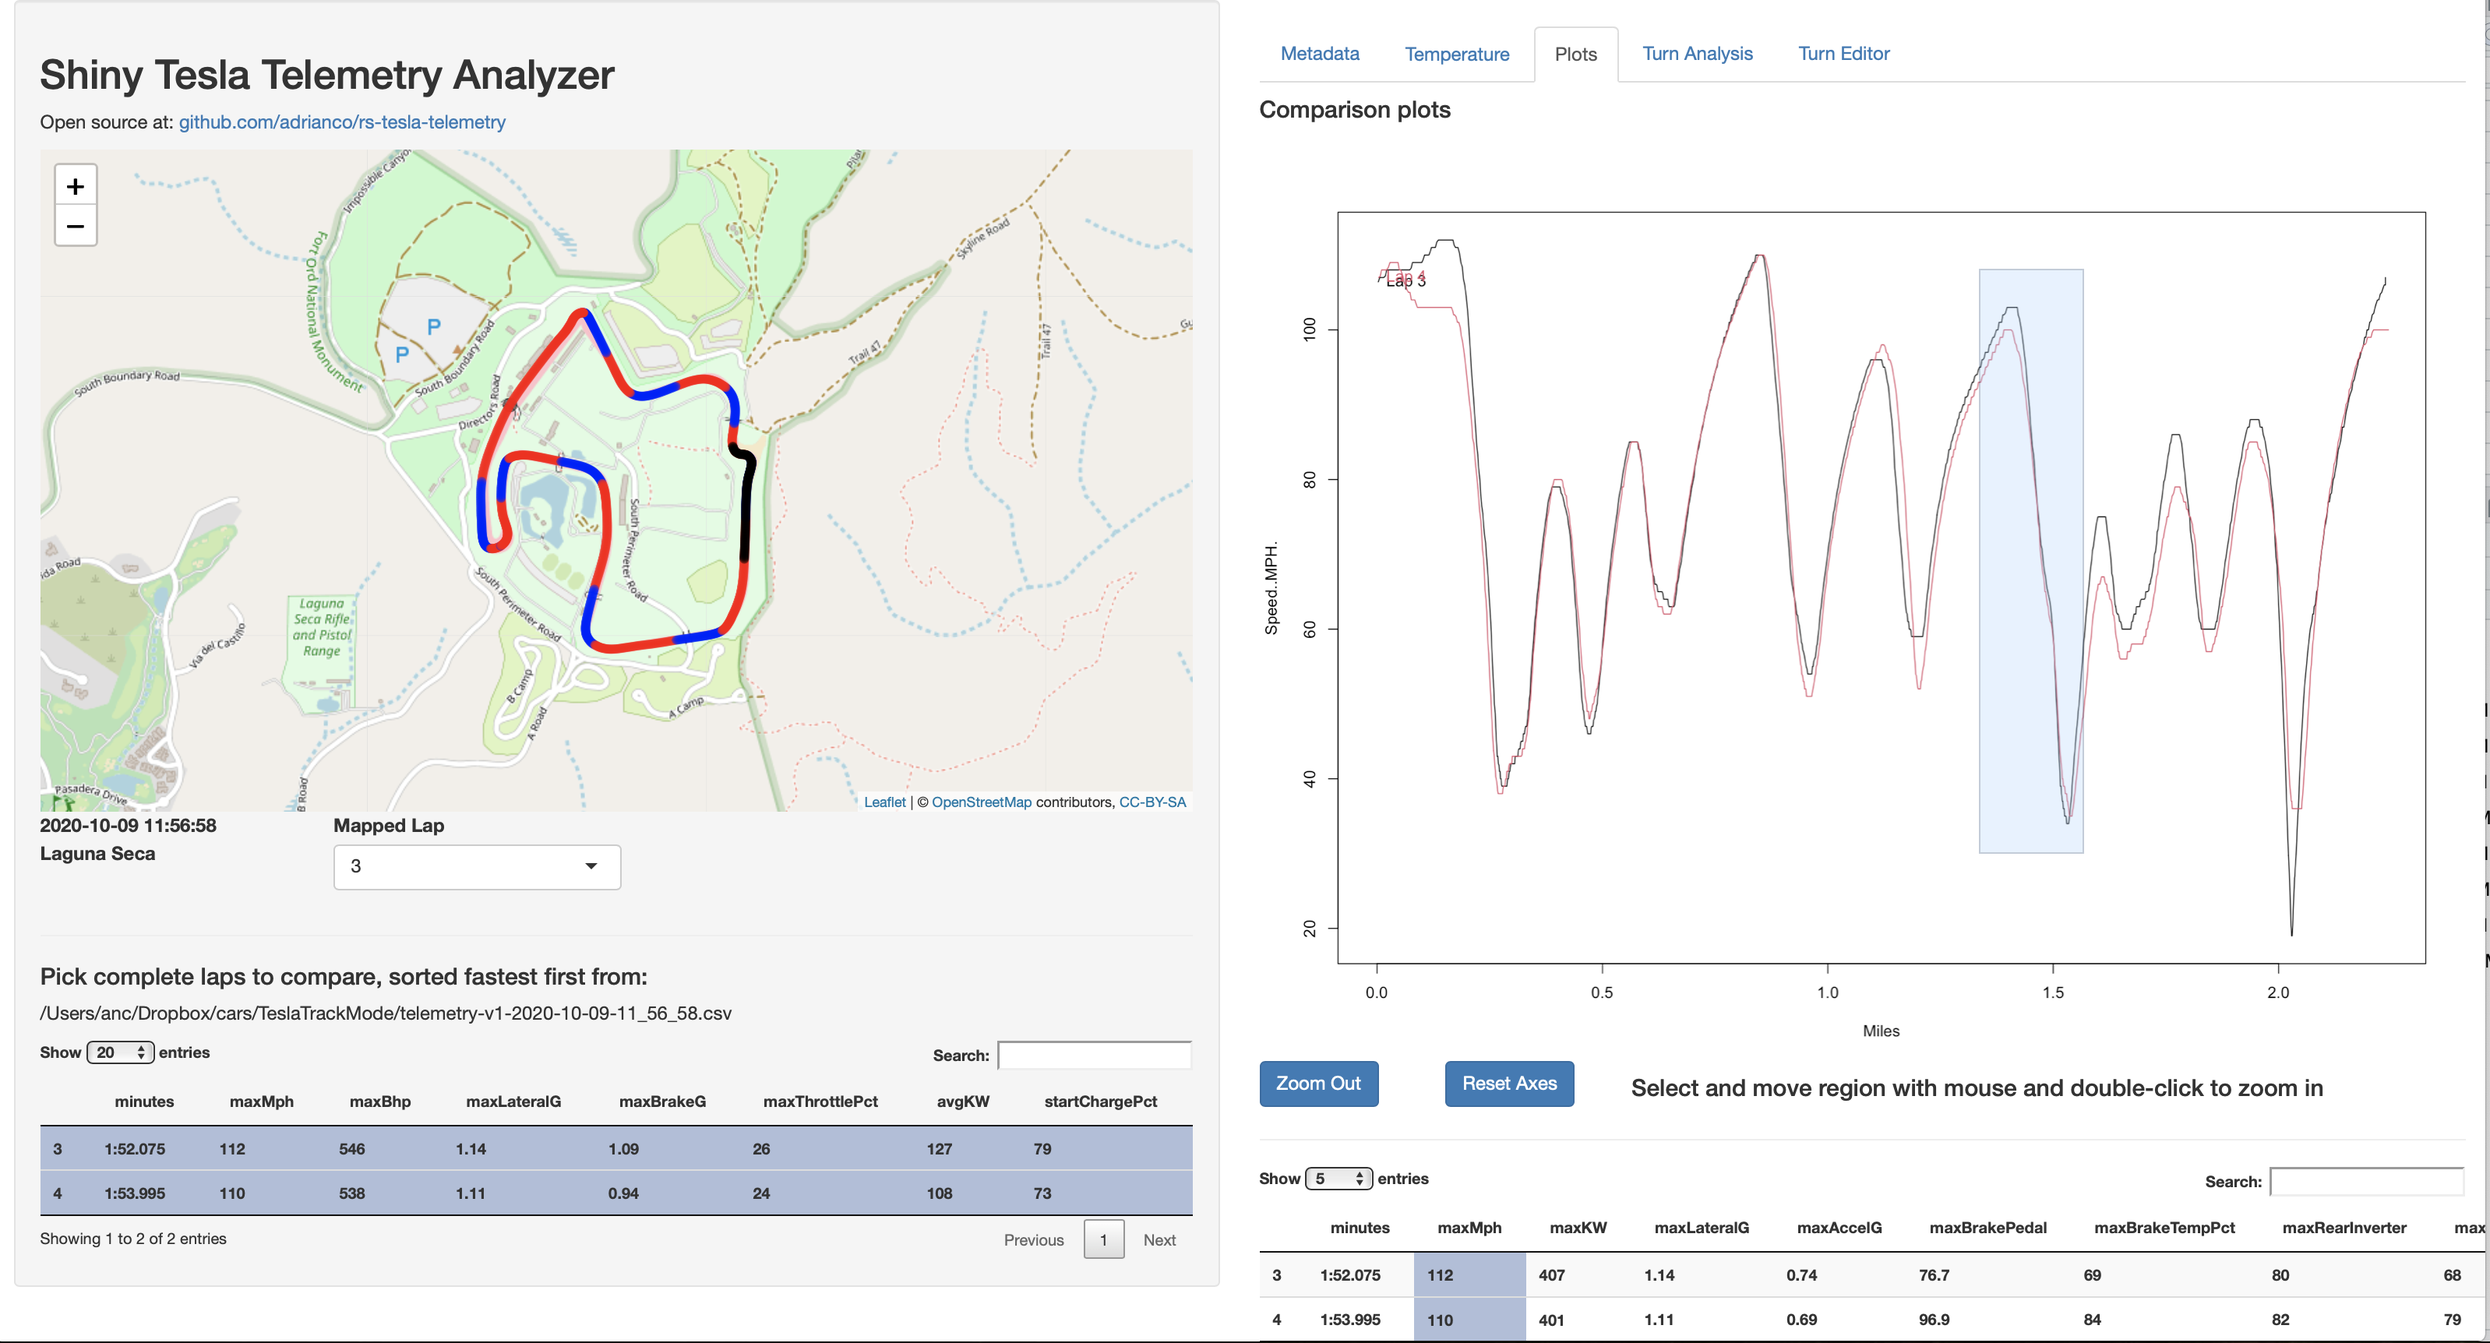
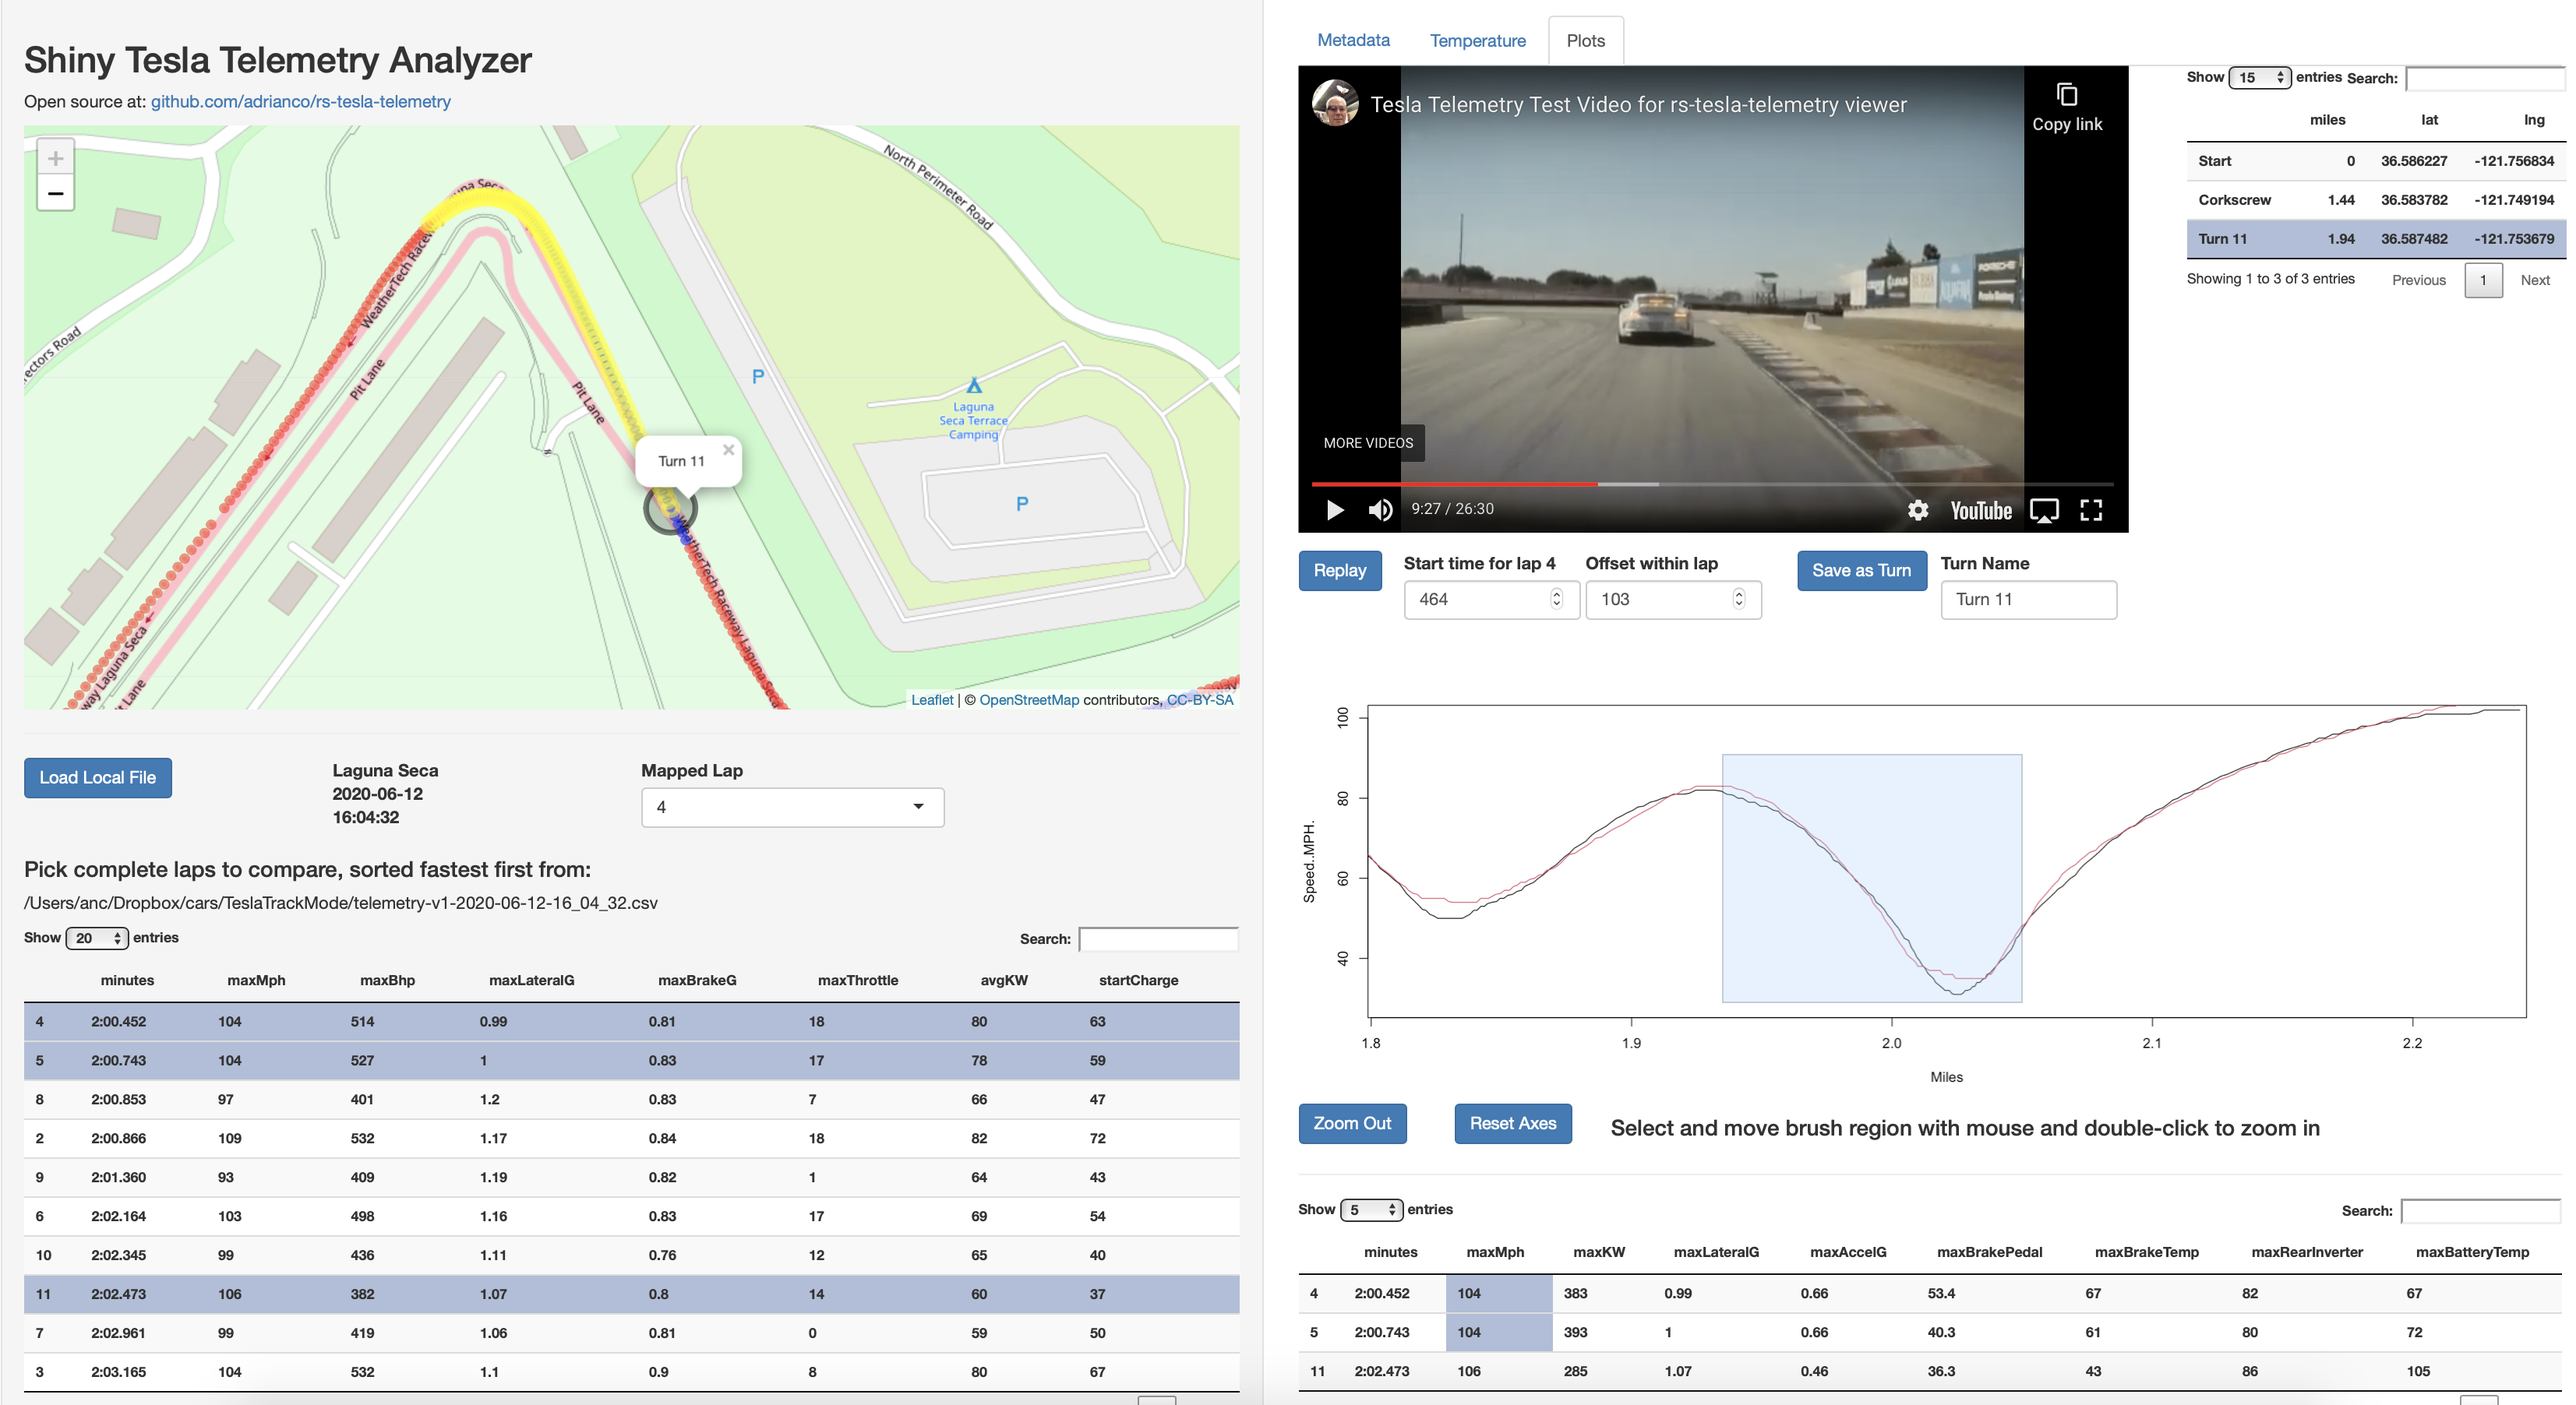
Updated README and screenshots

diff --git a/README.md b/README.md
@@ -1,30 +1,16 @@
 # rs-tesla-telemetry
 RStudio Shiny viewer for Tesla Telemetry Track Mode files - personal spare time project.
 
-Files are saved to the USB data logger port that is also used for Sentry videos. There's a silent video file of the track mode session, and a CSV format file named telemetry-v1-date-time.csv, there are 29 columns of data.
+Files are saved to the USB data logger port that is also used for Sentry videos. There's a silent video file of the track mode session, and a CSV format file named telemetry-v1-date-time.csv, there are 29 columns of data. Some people modify telemetry files to make the timestamp cumluative for import into tools like Racelogic, and add columns for brake pressure in Lbs as well as Bar. If 33 columns are detected the app assumes that the file is in Racelogic format and deals with it.
 
-Running the app, the telemetry file needs to be on the same machine, specified on the command line or from a chooser popup when run from RStudio. After the file is read it starts the user interface. This removes incomplete laps, sorts by fastest lap time, shows a summary of the performance data lap by lap, and summary tabs with a map view of the selected laps, and comparison plots of selected metrics vs. distance (rather than time, to align better). Plots can be zoomed in and out. Metadata about the session can be entered, and can be saved to a metadata file named and located the same as the telemetry file, which is loaded if it exists at startup. For each track, turn locations can be specified, for now this was manually created for Laguna Seca.
+Running the app, the telemetry file needs to be on the same machine, specified on the command line or loaded from a chooser popup. Different files can be loaded without restarting the app, and it remembers where files were last loaded even across restarts. The app removes incomplete laps, sorts laps by fastest lap time, shows a summary of the performance data lap by lap, and summary tabs with a map view of the selected laps, and comparison plots of selected metrics vs. distance (rather than time, to align better). Plots can be zoomed in and out. Metadata about the session can be entered, and can be saved to a metadata file named and located the same as the telemetry file, which is loaded if it exists at startup. For each session, turn locations can be specified and compared across laps. If a video of the session is available on Youtube, it can be saved as part of the metadata along with an offset to align it with the telemetry file. The video will be started at the right point to show the lap or the turn, for easy comparisons.
+
+For now the easiest way to run the app is by using RStudio to load it from github, and run it. It has been tested on both Mac and Windows. Some work to try and package it as a standalone app has run into packaging bugs.
 
 To run the app from the command line without RStudio give the track file path like this:
 ```
 % Rscript app.R /Users/anc/Dropbox/cars/TeslaTrackMode/telemetry-v1-2020-10-09-11_56_58.csv
-
-Attaching package: ‘DT’
-
-The following objects are masked from ‘package:shiny’:
-
-    dataTableOutput, renderDataTable
-
-collapse 1.4.0, see ?`collapse-package` or ?`collapse-documentation`
-Note: stats::D  ->  D.expression, D.call, D.name
-
-Attaching package: ‘collapse’
-
-The following object is masked from ‘package:stats’:
-
-    D
-
-
+...
 Listening on http://127.0.0.1:6344
 ```
 Then navigate to the URL and port shown on your machine using a web browser. Use ^C to stop the Rscript server.
@@ -34,13 +20,16 @@ On MacOS, you can use `$ zsh runme.zsh /Users/anc/Dropbox/cars/TeslaTrackMode/te
 
 See the [wiki for documentation](https://github.com/adrianco/rs-tesla-telemetry/wiki/Documentation) on how the code works and how to modify and extend it. 
  
+When the app starts it has a blank display, hit the Load Local File button to get the file chooser.
+![Screenshot](screenshots/BlankStart.png)
 
+Enter metadata about the session, and a YouTube ID if you have one.
+![Screenshot](screenshots/Metadata.png)
  
- ![Screenshot](screenshots/metadata.png)
+See how the laps compare and whether the car has overheated during the lap
+![Screenshot](screenshots/Temperature.png)
  
- ![Screenshot](screenshots/temperature.png)
+Plot comparisons between laps, and see video of turns
+![Screenshot](screenshots/Plots.png)
  
- ![Screenshot](screenshots/plots.png)
- 
- ![Screenshot](screenshots/plots_zoomed.png)
  
